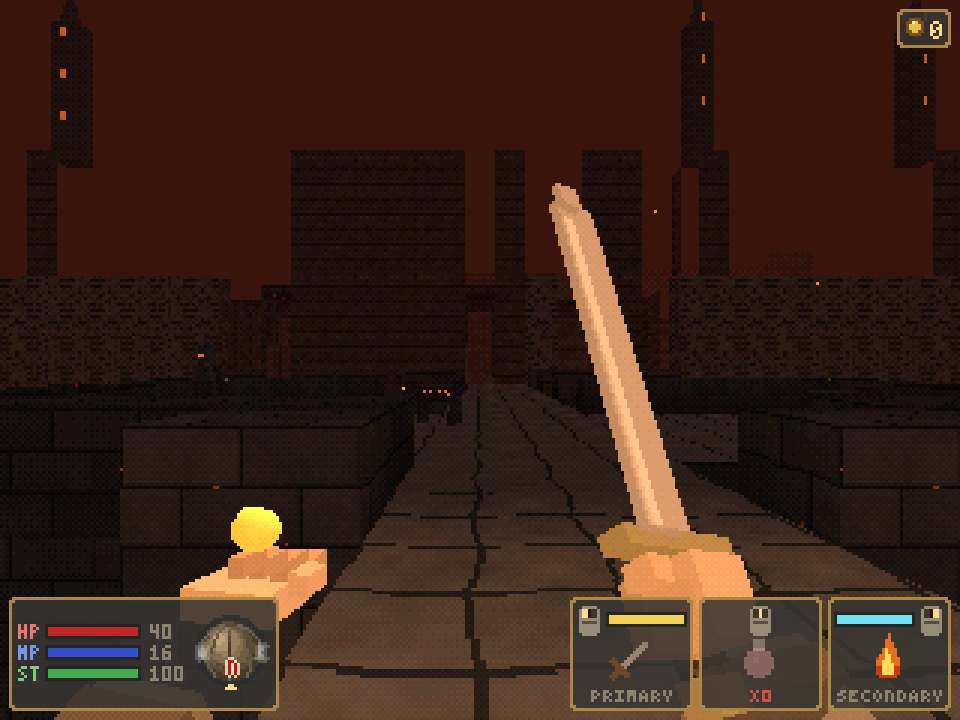
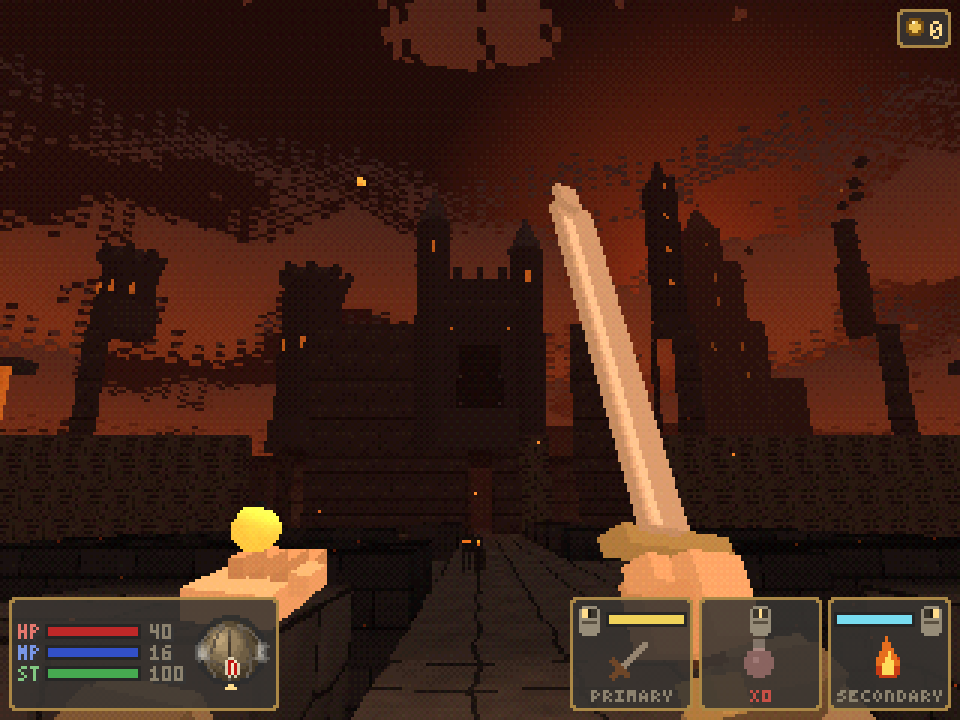
Describe the Butcher, the skies and the new skyline; retake the shots
AGENTS.md documents cage lifts, the Butcher and butcher_dead, the sky
modules and [meta] sky key, the new landmarks and their test, and new
smoke-run starts (the old jungle trail start now lands in a hedge). The
README gains the skies, the Butcher, the fortress skyline, a layout row and
a tip, and its screenshot commands follow the new trail, hall and bridge
views. Every shot under a sky, plus the lift and the hall, is retaken.

diff --git a/AGENTS.md b/AGENTS.md
@@ -62,8 +62,10 @@ ASHEN_VAULT_SAVE=/tmp/ashen_test_save.json \
 - The `smoke:` line includes the player's height (`y=`), handy for checking lifts.
 - Useful starts: `--at 4,24,90 --script "forward:0.9 wait:5 forward:0.6"` (the Cistern lift down to
   the Undercroft), `--at=11,26,90 --script "interact strafe_l:0.7 wait:5"` (free the shrine lift and
-  ride it up), `--at=23,13,0 --script "forward:0.7 wait:5"` (the lift up to the Warden's Gallery),
-  `--map harrowmere --at 40,14,0` (the jungle trail and its cave mouth), `--map verdant_hollow`
+  ride it up), `--at=23,13,0 --script "forward:0.7 wait:5"` (the cage lift up to the Warden's Gallery),
+  `--at=27,7,-90` (the Butcher in his slaughter hall north of the Gallery),
+  `--map harrowmere --at=32,14,-90` (the hedged jungle trail; `--at=41,18,-90` its dark end at the cave
+  mouth), `--map verdant_hollow`
   (Mossmouth, the dark cave you arrive in), `--at=15,31,180 --equip left=spell:pyre --script "cast"`
   (kindle Mossmouth's cold brazier), `--at=6,41,-90` (the Root Caverns), `--at=32,3,180` (the Canopy
   Walk), `--at=15,20,-90 --script interact` (the barred door, from its wrong side),
@@ -72,7 +74,7 @@ ASHEN_VAULT_SAVE=/tmp/ashen_test_save.json \
   `--at=15,7,-90` (the Ashen Warden in his hall), `--map harrowmere --at=16,4,-90 --script "wait:0.2
   interact"` (Odrin's dialogue box), `--map harrowmere --at=6,18,180 --script "forward:1 interact"` (Corvane; below
   `--level 5` they stay silent), `--map harrowmere --at=25,4,-90` (the north road's gate),
-  `--map cinderhold --at=29,50,-90` (the long bridge, the fortress ahead), `--map cinderhold --at=28,30,180`
+  `--map cinderhold --at=29,52,-90 --script "look_up:0.15"` (the long bridge and the fortress's skyline), `--map cinderhold --at=28,30,180`
   (the postern ledge and its flame jets), `--map cinderhold --at=18,17,180` (the foundry),
   `--map cinderhold --at=5,24,0` (the smelter pits), `--map cinderhold --at=30,6,180 --level 10`
   (the roof: the gargoyles wake at once).
@@ -89,12 +91,13 @@ ASHEN_VAULT_SAVE=/tmp/ashen_test_save.json \
 | `src/ashen_vault/ui/hud.py` | HUD, menus, dialogue boxes |
 | `src/ashen_vault/audio/synth.py` | Synthesized sound effects |
 | `src/ashen_vault/input.py` | Key bindings and the `--script` driver |
-| `src/ashen_vault/maps/*.map` | Plain-text tile maps: `[meta]`, `[legend]`, `[grid]`, `[entities]`. `harrowmere` (the village), `sunken_keep` (the dungeon below the well, with the Undercroft below its cells and the Warden's Gallery above the boss door), `verdant_hollow` (the jungle through the cave at the end of the village's east trail: Mossmouth cave, the Root Caverns below the bog, the Canopy Walk to the boss), `cinderhold` (the lava fortress up the north road: the long bridge, the gatehouse and postern, the foundry and the smelter pits below it, the ashworks, the rampart, and the roof where the twin gargoyles perch) |
+| `src/ashen_vault/maps/*.map` | Plain-text tile maps: `[meta]`, `[legend]`, `[grid]`, `[entities]`. `harrowmere` (the village), `sunken_keep` (the dungeon below the well, with the Undercroft below its cells and the Warden's Gallery above the boss door, the Butcher's slaughter hall north of it), `verdant_hollow` (the jungle through the cave at the end of the village's east trail: Mossmouth cave, the Root Caverns below the bog, the Canopy Walk to the boss), `cinderhold` (the lava fortress up the north road: the long bridge, the gatehouse and postern, the foundry and the smelter pits below it, the ashworks, the rampart, and the roof where the twin gargoyles perch) |
+| `src/ashen_vault/world/sky.py`, `render/sky.py` | Skies (`[meta] sky = overcast\|jungle\|ember`): a gradient dome meeting the fog at the horizon, a sun and halo, drifting cloud banks and an overhead cap, horizon mist; dimmed by darkness and the Veil. Built pure in `world/sky.py`, drawn first each frame without fog or depth by `render/sky.py` |
 | `src/ashen_vault/world/darkness.py` | Dark tiles: how your light and the fog close in, Lumen and the Veil of Mist |
 | `src/ashen_vault/world/doors.py` | One-way doors (`door from=`): which side lifts the bar |
 | `src/ashen_vault/world/hazards.py` | Dungeon traps: floor spikes, pendulum blades, crumbling floors, flame jets, magma vents (whose bombs are `Eruption`s with an `origin`); the bosses' fire eruptions and slam shockwaves |
 | `src/ashen_vault/world/elements.py` | Elements: lightning against `conductive` foes, fire against `fireproof` ones, which weapons burn |
-| `src/ashen_vault/render/forge_models.py` | The Cinderhold's models (golem, bowman, hound, the gargoyles, Stormbrand and Slagbreaker, arrows, thunder and motes, flame jets, spires); `models` imports it last and borrows its helpers |
+| `src/ashen_vault/render/forge_models.py` | The Cinderhold's models (golem, bowman, hound, the gargoyles, Stormbrand and Slagbreaker, arrows, thunder and motes, flame jets, and the skyline: spires, bastions, smokestacks, the gatehouse, the keep, lavafalls); `models` imports it last and borrows its helpers |
 | `src/ashen_vault/world/terrain.py` | Terrain: rafts, planks, ledges, rotten floorboards, chain lifts, currents, thorns, chasm and river falls, hard landings, the log rack, spore pods (`World.terrain`) |
 | `src/ashen_vault/world/rest.py` | The shrine rest: timing and the pixelated ember fog pattern drawn while you pray |
 | `src/ashen_vault/ui/smallfont.py` | The small mixed-case pixel font for all game text: menus, dialogue, messages, prompts and the boss bar (`hud.text` draws with it) |
@@ -140,10 +143,11 @@ ASHEN_VAULT_SAVE=/tmp/ashen_test_save.json \
   there, and standing in one shrinks your own light and pulls the fog in (`world/darkness.py`);
   Lumen pushes both back.
   Terrain entities: `raft to=tx,tz speed= phase=`, `plank`, `ledge deck=`, `boards deck=` (rotten
-  floorboards that break for good), `lift top= [start=top] [lever=id] [speed=]` (a chain lift: its
+  floorboards that break for good), `lift top= [start=top] [lever=id] [speed=] [model=cage]` (a chain lift: its
   tile is a `chasm` shaft whose floor is the bottom stop and whose `ceil` clears `top`; it carries
   whoever stands on it to the other end, and comes when someone waits at a landing. With `lever=` it
-  stays chained until the matching lever is pulled, a shortcut opened from one side),
+  stays chained until the matching lever is pulled, a shortcut opened from one side. `model=cage` draws
+  the keep's barred jail cage, open on the sides that face a landing (`terrain.lift_doors`)),
   `bridge lever=id hinge=n|s|e|w deck=` (a drawbridge standing raised on its hinge side until its
   lever lets it down, for good), `log_chute to=tx,tz every= speed= logs=` (a log rack that only
   releases while someone climbs its slope) and `spore_pod every=`.
@@ -152,10 +156,14 @@ ASHEN_VAULT_SAVE=/tmp/ashen_test_save.json \
   count= phase=` (stands in a lava chasm; lobs bombs at open-sky solid ground within `radius` metres,
   the first at you).
   `[meta]` may set `model_range`: metres beyond which small models stop being drawn, short of the fog's
-  end, on a map that sees far; `LANDMARKS` (`spire`) are still drawn out to the fog.
+  end, on a map that sees far; `LANDMARKS` (`spire`, `keep`, `bastion`, `smokestack`, `gatehouse`,
+  `lavafall`) are still drawn out to the fog. They stand on tiles no one reaches (wall tops, the moat)
+  or above a passage's roof (`bastion base=`, `gatehouse`), and no two Cinderhold towers share a shape
+  (`test_cinderhold_skyline_has_no_two_towers_alike_and_stands_out_of_reach`).
 - Enemy behaviour flags in `ai/enemy_types.py`: `ambush` spawns dormant (the chest Mimic) until woken;
   `lurk` sits still until you come close (the Stump Mimic, the Bone Crawler); `once` stays dead;
-  bosses set `dead_flag` and drop a relic. Any type picks special attacks from `moves` (see `MOVES` in
+  bosses set `dead_flag` and drop a relic (the Butcher, a mini-boss, sets `butcher_dead` but has no
+  relic: his cleaver is an entity `item=`). Any type picks special attacks from `moves` (see `MOVES` in
   `ai/enemy.py`: `sweep`, `web`, `pounce`, `cinders`, `combo`, `slam`, `eruption`, `hook`, `breath`
   (a line of `Eruption`s raking toward you and past), `dive` (a swoop through where you stood)). At half
   HP a boss with a `brood` calls it and one with a `rage` kindles it (the Warden's burning blade);
@@ -179,8 +187,8 @@ ASHEN_VAULT_SAVE=/tmp/ashen_test_save.json \
   `aim_wrist(blade_direction, shoulder + elbow)` rather than a fixed angle, so it never folds back along
   the arm. `tests/test_render_logic.py` checks the wrist stays within 150 degrees of the forearm's line.
 - Props that fill their tile are listed in `world/world.py` (`BLOCKING_PROPS`, `BREAKABLE_PROPS`;
-  the keep adds `pillar`, `sarcophagus` and `bell`, the jungle `bonfire`, `giant_mushroom` and
-  `totem`). Decor that blocks nothing: `cage` and `roots` hang from the ceiling, `grate` sits in the
+  the keep adds `pillar`, `sarcophagus` and `headsman_block`, the jungle `bonfire`, `giant_mushroom` and
+  `totem`). Decor that blocks nothing: `cage`, `roots` and `meat_hooks` hang from the ceiling, `grate` sits in the
   floor, `mushrooms` dot it, and `cobweb`, `skull_niche`, `winch`, `lever` and `shelf_fungus` mount on
   the nearest wall (`WALL_PROPS`). `lever model=wood` is the jungle's wooden lever.
   Light comes from `mesh_builder.LIGHT_KINDS` (torches, braziers, fungus, bonfires, the glowing
@@ -209,7 +217,7 @@ ASHEN_VAULT_SAVE=/tmp/ashen_test_save.json \
 - Persistent world state lives in the save's `flags` set, keyed `<kind>:<map>:<tx>,<tz>` (opened
   chests, broken barrels, revealed walls, slain mimics, kindled fires as `lit:`) or `loot:<key>` for
   dropped items. Bosses add
-  their `dead_flag` (`boss_dead`, `spider_dead`, `gargoyles_dead`) and relics a `<relic>_taken` flag
+  their `dead_flag` (`boss_dead`, `spider_dead`, `gargoyles_dead`, `butcher_dead`) and relics a `<relic>_taken` flag
   (`sigil_taken` for the Ember Sigil).
 - Equipment (`player/inventory.py`): two hand slots, shown to players as **Primary** (`right` = left
   mouse button) and **Secondary** (`left` = right button) via `SLOT_NAMES`; never say "hand" in text the

diff --git a/README.md b/README.md
@@ -72,7 +72,7 @@ FromSoftware, Inc.
     <td align="center"><sub>The Loom Mother</sub></td>
   </tr>
   <tr>
-    <td><img src="docs/screenshots/jungle_trail.png" alt="A green trail between vine hedges ending at a cave mouth, glowing toadstools at its lip"></td>
+    <td><img src="docs/screenshots/jungle_trail.png" alt="A narrow hedged trail under a darkening canopy, glowing toadstools at the cave mouth ahead"></td>
     <td><img src="docs/screenshots/mossmouth.png" alt="A brazier just kindled in the dark Mossmouth cave, a chest beside it"></td>
   </tr>
   <tr>
@@ -96,15 +96,15 @@ FromSoftware, Inc.
     <td align="center"><sub>Corvane's blades, for those who have proven themselves</sub></td>
   </tr>
   <tr>
-    <td><img src="docs/screenshots/undercroft_lift.png" alt="Riding a chain lift down a shaft toward a wall of skulls and bones"></td>
-    <td><img src="docs/screenshots/gallery.png" alt="The Warden's Gallery: a stone pillar, hanging roots, a bronze bell, a gibbet cage and a hooded Gaoler"></td>
+    <td><img src="docs/screenshots/undercroft_lift.png" alt="Riding a barred cage lift down a shaft toward a wall of skulls and bones"></td>
+    <td><img src="docs/screenshots/gallery.png" alt="The Butcher, a hooded brute with a cleaver, in his slaughter hall above the Warden's Gallery, meat hooks hanging behind him"></td>
   </tr>
   <tr>
-    <td align="center"><sub>Riding the lift down into the Undercroft</sub></td>
-    <td align="center"><sub>The Warden's Gallery, and a Gaoler with his hooked chain</sub></td>
+    <td align="center"><sub>Riding the cage lift down into the Undercroft</sub></td>
+    <td align="center"><sub>The Butcher, waiting in his slaughter hall</sub></td>
   </tr>
   <tr>
-    <td><img src="docs/screenshots/cinderhold_bridge.png" alt="A long stone bridge over a lava gorge leading to a black fortress with tall spires, slag hounds waiting on the span"></td>
+    <td><img src="docs/screenshots/cinderhold_bridge.png" alt="A long stone bridge leading to a black fortress under a smoky red sky: a turreted gatehouse, a drum bastion, a great keep, smelter stacks and a spire"></td>
     <td><img src="docs/screenshots/postern_ledge.png" alt="A narrow ledge along the fortress wall above lava, a magma bomb arcing toward a glowing landing circle and an iron bowman ahead"></td>
   </tr>
   <tr>
@@ -124,11 +124,14 @@ FromSoftware, Inc.
 ## Features
 
 - **PS1-style renderer**: 320×240 internal resolution, vertex snapping, affine texture warping,
-  15-bit color with ordered dithering, distance fog and baked vertex lighting.
+  15-bit color with ordered dithering, distance fog and baked vertex lighting, under skies of drifting
+  cloud with a sun glowing through them and mist along the horizon.
 - **Deliberate, weighty combat**: an ATK gauge that refills between swings, enemy wind-ups you can read
   and interrupt, and bosses with poise and attacks of their own: the Ashen Warden cleaves all around,
   leaps, flings embers, chains three cuts together and slams a shockwave through the floor, and at
-  half health his blade catches fire and he calls flame up from beneath your feet; the Loom Mother
+  half health his blade catches fire and he calls flame up from beneath your feet; above his hall the
+  Butcher swings a cleaver all around him, lunges and hacks, and at half health flies into a frenzy
+  of floor-shaking chops; the Loom Mother
   sweeps, spits webs, pounces and calls her brood; and on the Cinderhold's roof two iron gargoyles fight
   as a pair: Brand sweeps, claws, leaps and slams, Bellows hovers, rakes the roof with fiery breath and
   swoops straight through you. They take turns, and when one falls the other flies into a rage.
@@ -157,17 +160,18 @@ FromSoftware, Inc.
   (one of them only once you have proven yourself).
 - **A keep that fights back**: floor spikes, swinging pendulum blades and floors that crumble into the
   dark, plus barrels, crates and urns to smash for a few coins, and secrets for those who look closely.
-- **A keep that folds back on itself**: chain lifts sink to a skull-walled Undercroft below the cells
-  and climb to the Warden's Gallery above his door. Some lifts are chained fast until you free their
-  winch from the far side, opening shortcuts back to the shrine. Hooded Gaolers drag you in on hooked
+- **A keep that folds back on itself**: barred cage lifts sink to a skull-walled Undercroft below the
+  cells and climb to the Warden's Gallery above his door, where the Butcher waits among his hooks with a
+  cleaver worth taking. Some lifts are chained fast until you free their winch from the far side,
+  opening shortcuts back to the shrine. Hooded Gaolers drag you in on hooked
   chains, and not every heap of bones stays a heap.
 - **A jungle that fights back too**: a river with a ford, a drifting raft and rotting planks; thorn
   beds; a ravine crossed on crumbling ledges; a slope where a log rack rolls its logs at climbers;
   choking spore pods in a stilt cabin; and an abandoned woodcutters' camp to rummage through, whose
   cabin floor gives way into its cellar. Long drops hurt, and the hollow keeps a few secrets too.
 - **A fortress of iron and fire**: cross a long bridge over a lava gorge while vents in the lava lob
-  molten bombs at you and iron bowmen shoot from the walls, with the black towers of the Cinderhold
-  ahead. Inside, lava channels cut through the foundry, flame jets guard the corridors, slag hounds
+  molten bombs at you and iron bowmen shoot from the walls, with the Cinderhold's turreted gatehouse,
+  great keep and smoking stacks ahead and molten iron pouring from its walls into the gorge. Inside, lava channels cut through the foundry, flame jets guard the corridors, slag hounds
   prowl the dark smelter pits and forge golems hide an open firebox on their backs. A postern, a gate
   winch and a chained lift fold the fortress back onto its shrine.
 - **Dark places**: the hollow's caves and root caverns swallow your light. Only torches, glowing
@@ -294,6 +298,8 @@ The same list is in the game under **Controls** on the title and pause menus.
   budge, look for the winch lever at the other end.
 - When the Warden raises his blade in both hands, back away: the slam reaches all around him. Once his
   blade burns, keep moving off the glowing circles on the floor.
+- The Butcher is slow but hits hard. Wait out his wind-up, strike after the blow, and back off when
+  he raises the cleaver in both hands.
 - Not every wall is a wall, and not every chest is a chest. Not every stump is a stump, either.
 - In the jungle, keep moving on ledges and rotten planks, and wait in the notches of the log slope
   for each log to pass. Tree creatures turn slowly: get behind them, or set them alight.
@@ -360,7 +366,8 @@ it, so Claude Code, Codex, Cursor and Copilot all follow the same rules.
 | `src/ashen_vault/maps/*.map` | Plain-text tile maps (`[meta]`, `[legend]`, `[grid]`, `[entities]`) |
 | `src/ashen_vault/world/hazards.py`, `world/terrain.py` | Traps (spikes, blades, crumbling floors, flame jets, magma vents) and boss fire; terrain (lifts, river, ravine, ledges, logs, spores) |
 | `src/ashen_vault/world/elements.py` | Lightning against iron, fire against what was forged in it |
-| `src/ashen_vault/render/forge_models.py` | The Cinderhold's foes, the twin gargoyles, its weapons, shots and fortress dressing |
+| `src/ashen_vault/render/forge_models.py` | The Cinderhold's foes, the twin gargoyles, its weapons, shots, fortress dressing and skyline |
+| `src/ashen_vault/world/sky.py`, `render/sky.py` | Each map's sky (gradient, sun, clouds, mist), built as plain geometry and drawn behind the world |
 | `src/ashen_vault/dialogue.py` | NPC conversations |
 | `docs/logo/make_logo.py` | Generates the pixel-art logo SVG (its letters come from `ui/logofont.py`) |
 
@@ -399,13 +406,13 @@ the flame bolt shot is
 the Loom Mother is `uv run ashen-vault --map verdant_hollow --at=15,7,-90 --smoke 40 --shot loom_mother.png`,
 the lift ride is
 `uv run ashen-vault --map sunken_keep --at 4,24,90 --smoke 560 --script "forward:0.9 wait:5 forward:0.3" --shot undercroft_lift.png`,
-the gallery is `uv run ashen-vault --map sunken_keep --at=25,15,-60 --smoke 40 --shot gallery.png`,
-the jungle trail is `uv run ashen-vault --map harrowmere --at 38,14,0 --smoke 40 --shot jungle_trail.png`,
+the Butcher is `uv run ashen-vault --map sunken_keep --at=27,7,-90 --smoke 20 --shot gallery.png`,
+the jungle trail is `uv run ashen-vault --map harrowmere --at=41,18,-90 --smoke 40 --shot jungle_trail.png`,
 Mossmouth is
 `uv run ashen-vault --map verdant_hollow --at=15,31,180 --equip left=spell:pyre --script "wait:0.3 cast wait:3" --smoke 120 --shot mossmouth.png`,
 the canopy is `uv run ashen-vault --map verdant_hollow --at=31,3,180 --script "look_down:0.12" --smoke 40 --shot canopy_walk.png`,
 the Root Caverns are `uv run ashen-vault --map verdant_hollow --at=6,38,-100 --smoke 25 --shot root_caverns.png`,
-the long bridge is `uv run ashen-vault --map cinderhold --at=29,50,-90 --smoke 60 --shot cinderhold_bridge.png`,
+the long bridge is `uv run ashen-vault --map cinderhold --at=29,52,-90 --script "look_up:0.15" --smoke 60 --shot cinderhold_bridge.png`,
 the postern ledge is `uv run ashen-vault --map cinderhold --at=28,30,180 --smoke 190 --shot postern_ledge.png`,
 the foundry is `uv run ashen-vault --map cinderhold --at=18,17,180 --smoke 40 --shot foundry.png`,
 the gargoyles are
